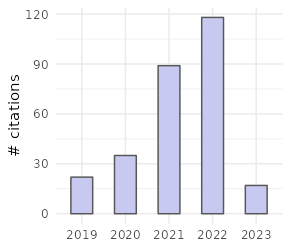
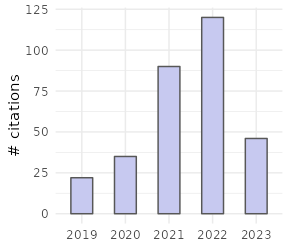
Publication update

diff --git a/publications.html b/publications.html
@@ -34,33 +34,32 @@
     <div class="wrap">
 <h1>Publications</h1>
 <h2>In preparation</h2>
-<h3>2022</h3>
-<p>Khaipho-Burch, Merritt; Giri, Anju; Ramstein, Guillaume; <b>Monier, Brandon</b>; Romay, Maria Cinta; Buckler, Edward S (2022) Elucidating the patterns of pleiotropy and its biological relevance in maize. <i>In preparation</i> doi: <a class="body" href="NA">NA</a></p>
-<p>Sun, Xiaopeng; Xiang, Yanli; Dou, Nannan; Zhang, Hui; Pei, Surui; Valdes Franco, Jose A; Menon, Mitra; <b>Monier, Brandon</b>, Ferebee, Taylor; Liu Tao; Liu, Sanyang; Gao, Yuchi; Wang, Jubin; Terzaghi, William; Yan, Jianbing; Hearne, Sarah; Li, Lin; Li, Feng; Dai, Mingqiu (2022) Genomic basis of the trade-off between environmental adaptation and yield-related traits in maize. <i>In preparation</i> doi: <a class="body" href="NA">NA</a></p>
 <h2>Proceedings and Book Chapters</h2>
 <h3>2017</h3>
-<p><b>Monier, Brandon</b>; Peta, Vincent; Mensah, Jerry; Bucking, Heike (2017) Inter-and intraspecific fungal diversity in the arbuscular mycorrhizal symbiosis. <i>Mycorrhiza-Function, Diversity, State of the Art</i> doi: <a class="body" href="https://doi.org/10.1007/978-3-319-53064-2_12">https://doi.org/10.1007/978-3-319-53064-2_12</a></p>
+<p><b>Monier, Brandon</b>; Peta, Vincent; Mensah, Jerry; Bucking, Heike (2017) Inter-and intraspecific fungal diversity in the arbuscular mycorrhizal symbiosis. <i>Mycorrhiza-Function, Diversity, State of the Art</i> doi: <a class="body" href="10.1007/978-3-319-53064-2_12">10.1007/978-3-319-53064-2_12</a></p>
 <h2>Journal Articles</h2>
+<h3>2023</h3>
+<p>Khaipho-Burch, Merritt; Ferebee, Taylor; Giri, Anju; Ramstein, Guillaume; <b>Monier, Brandon</b>; Yi, Emily; Romay, M. Cinta; Buckler, Edward S. (2023) Elucidating the patterns of pleiotropy and its biological relevance in maize. <i>PLOS Genetics</i> doi: <a class="body" href="10.1371/journal.pgen.1010664">10.1371/journal.pgen.1010664</a></p>
+<p>Sun, Xiaopeng; Xiang, Yanli; Dou, Nannan; Zhang, Hui; Pei, Surui; Franco, Arcadio Valdes; Menon, Mitra; <b>Monier, Brandon</b>; Ferebee, Taylor; Liu, Tao; Liu, Sanyang; Gao, Yuchi; Wang, Jubin; Terzaghi, William; Yan, Jianbing; Hearne, Sarah; Li, Lin; Li, Fengand Dai, Mingqiu (2023) The role of transposon inverted repeats in balancing drought tolerance and yield-related traits in maize. <i>Nature Biotechnology</i> doi: <a class="body" href="10.1038/s41587-022-01470-4">10.1038/s41587-022-01470-4</a></p>
 <h3>2022</h3>
-<p>Gage, Joseph L; Mali, Sujina; McLoughlin, Fionn; Khaipho-Burch, Merritt; <b>Monier, Brandon</b>; Bailey-Serres, Julia; Vierstra, Richard D; Buckler, Edward S (2022) Variation in upstream open reading frames contributes to allelic diversity in protein abundance. <i>Proceedings of the National Academy of Sciences</i> doi: <a class="body" href="https://doi.org/10.1073/pnas.2112516119">https://doi.org/10.1073/pnas.2112516119</a></p>
+<p>Brandon Monier; Terry M. Casstevens; Peter J. Bradbury; Edward S. Buckler (2022) rTASSEL: An R interface to TASSEL for analyzing genomic diversity. <i>Journal of Open Source Software</i> doi: <a class="body" href="10.21105/joss.04530">10.21105/joss.04530</a></p>
+<p>Bradbury, P J; Casstevens, T; Jensen, S E; Johnson, L C; Miller, Z R; Monier, B; Romay, M C; Song, B; Buckler, E S (2022) The Practical Haplotype Graph, a platform for storing and using pangenomes for imputation}",. <i>Bioinformatics</i> doi: <a class="body" href="10.1093/bioinformatics/btac410">10.1093/bioinformatics/btac410</a></p>
+<p>Gage, Joseph L; Mali, Sujina; McLoughlin, Fionn; Khaipho-Burch, Merritt; <b>Monier, Brandon</b>; Bailey-Serres, Julia; Vierstra, Richard D; Buckler, Edward S (2022) Variation in upstream open reading frames contributes to allelic diversity in protein abundance. <i>Proceedings of the National Academy of Sciences</i> doi: <a class="body" href="10.1073/pnas.2112516119">10.1073/pnas.2112516119</a></p>
 <h3>2021</h3>
-<p>Bradbury, Peter; Casstevens, Terry; Jensen, Sarah E; Johnson, Lynn C; Miller, Zachary R; <b>Monier, Brandon</b>; Romay, Maria Cinta; Song, Baoxing; Buckler, Edward S (2021) The Practical Haplotype Graph, a platform for storing and using pangenomes for imputation. <i>bioRxiv</i> doi: <a class="body" href="https://doi.org/10.1101/2021.08.27.457652">https://doi.org/10.1101/2021.08.27.457652</a></p>
-<p>Ferguson, John N; Fernandes, Samuel B; <b>Monier, Brandon</b>; Miller, Nathan D; Allen, Dylan; Dmitrieva, Anna; Schmuker, Peter; Lozano, Roberto; Valluru, Ravi; Buckler, Edward S; Gore, Michael A; Brown, Patrick J; Spalding, Edgar P; Leakey, Andrew DB (2021) Machine learning-enabled phenotyping for GWAS and TWAS of WUE traits in 869 field-grown sorghum accessions. <i>Plant physiology</i> doi: <a class="body" href="https://doi.org/10.1093/plphys/kiab346">https://doi.org/10.1093/plphys/kiab346</a></p>
-<p><b>Monier, Brandon</b>; Casstevens, Terry M; Bradbury, Peter J; Buckler, Edward S (2021) rTASSEL: an R interface to TASSEL for association mapping of complex traits. <i>bioRxiv</i> doi: <a class="body" href="https://doi.org/10.1101/2020.07.21.209114">https://doi.org/10.1101/2020.07.21.209114</a></p>
+<p>Ferguson, John N; Fernandes, Samuel B; <b>Monier, Brandon</b>; Miller, Nathan D; Allen, Dylan; Dmitrieva, Anna; Schmuker, Peter; Lozano, Roberto; Valluru, Ravi; Buckler, Edward S; Gore, Michael A; Brown, Patrick J; Spalding, Edgar P; Leakey, Andrew DB (2021) Machine learning-enabled phenotyping for GWAS and TWAS of WUE traits in 869 field-grown sorghum accessions. <i>Plant physiology</i> doi: <a class="body" href="10.1093/plphys/kiab346">10.1093/plphys/kiab346</a></p>
 <h3>2020</h3>
-<p>Gage, Joseph L; <b>Monier, Brandon</b>; Giri, Anju; Buckler, Edward S (2020) Ten years of the maize nested association mapping population: impact, limitations, and future directions. <i>The Plant Cell</i> doi: <a class="body" href="https://doi.org/10.1105/tpc.19.00951">https://doi.org/10.1105/tpc.19.00951</a></p>
+<p>Gage, Joseph L; <b>Monier, Brandon</b>; Giri, Anju; Buckler, Edward S (2020) Ten years of the maize nested association mapping population: impact, limitations, and future directions. <i>The Plant Cell</i> doi: <a class="body" href="10.1105/tpc.19.00951">10.1105/tpc.19.00951</a></p>
 <h3>2019</h3>
-<p>Sethi, Prince; Narayana Gowda, Smitha; Motapothula, Uma; Baloun, Brett; Atiq, Muslim (2019) Use of lumen apposing metal stent for pyloric stenosis refractory to balloon dilatation. <i>Journal of digestive diseases</i> doi: <a class="body" href="https://doi.org/10.1111/1751-2980.12828">https://doi.org/10.1111/1751-2980.12828</a></p>
-<p><b>Monier, Brandon</b>; McDermaid, Adam; Wang, Cankun; Zhao, Jing; Miller, Allison; Fennell, Anne; Ma, Qin (2019) IRIS-EDA: An integrated RNA-Seq interpretation system for gene expression data analysis. <i>PLoS computational biology</i> doi: <a class="body" href="https://doi.org/10.1371/journal.pcbi.1006792">https://doi.org/10.1371/journal.pcbi.1006792</a></p>
-<p>McDermaid, Adam; <b>Monier, Brandon</b>; Zhao, Jing; Liu, Bingqiang; Ma, Qin (2019) Interpretation of differential gene expression results of RNA-seq data: review and integration. <i>Briefings in bioinformatics</i> doi: <a class="body" href="https://doi.org/10.1093/bib/bby067">https://doi.org/10.1093/bib/bby067</a></p>
+<p><b>Monier, Brandon</b>; McDermaid, Adam; Wang, Cankun; Zhao, Jing; Miller, Allison; Fennell, Anne; Ma, Qin (2019) IRIS-EDA: An integrated RNA-Seq interpretation system for gene expression data analysis. <i>PLoS computational biology</i> doi: <a class="body" href="10.1371/journal.pcbi.1006792">10.1371/journal.pcbi.1006792</a></p>
+<p>McDermaid, Adam; <b>Monier, Brandon</b>; Zhao, Jing; Liu, Bingqiang; Ma, Qin (2019) Interpretation of differential gene expression results of RNA-seq data: review and integration. <i>Briefings in bioinformatics</i> doi: <a class="body" href="10.1093/bib/bby067">10.1093/bib/bby067</a></p>
 <h3>2018</h3>
-<p><b>Monier, Brandon</b>; McDermaid, Adam; Zhao, Jing; Fennell, Anne; Ma, Qin (2018) IRIS-DGE: An integrated RNA-seq data analysis and interpretation system for differential gene expression. <i>bioRxiv</i> doi: <a class="body" href="https://doi.org/10.1101/283341">https://doi.org/10.1101/283341</a></p>
-<p>McDermaid, Adam; <b>Monier, Brandon</b>; Zhao, Jing; Ma, Qin (2018) ViDGER: An R package for integrative interpretation of differential gene expression results of RNA-seq data. <i>bioRxiv</i> doi: <a class="body" href="https://doi.org/10.1101/268896">https://doi.org/10.1101/268896</a></p>
+<p><b>Monier, Brandon</b>; McDermaid, Adam; Zhao, Jing; Fennell, Anne; Ma, Qin (2018) IRIS-DGE: An integrated RNA-seq data analysis and interpretation system for differential gene expression. <i>bioRxiv</i> doi: <a class="body" href="10.1101/283341">10.1101/283341</a></p>
+<p>McDermaid, Adam; <b>Monier, Brandon</b>; Zhao, Jing; Ma, Qin (2018) ViDGER: An R package for integrative interpretation of differential gene expression results of RNA-seq data. <i>bioRxiv</i> doi: <a class="body" href="10.1101/268896">10.1101/268896</a></p>
 <h2>Theses</h2>
 <h3>2018</h3>
-<p><b>Monier, Brandon</b> (2018) Microbial communities and their impact on bioenergy crops in dynamic environments. NA doi: <a class="body" href="https://openprairie.sdstate.edu/etd/2659">https://openprairie.sdstate.edu/etd/2659</a></p>
+<p><b>Monier, Brandon</b> (2018) Microbial communities and their impact on bioenergy crops in dynamic environments. NA doi: <a class="body" href="NA">NA</a></p>
 <h3>2013</h3>
-<p><b>Monier, Brandon</b> (2013) The Analysis of Cytotypic Variation and Construction of a BAC Library of Midwestern Prairie Cordgrass (Spartina pectinata Link) Genotypes. NA doi: <a class="body" href="https://openprairie.sdstate.edu/etd/1624">https://openprairie.sdstate.edu/etd/1624</a></p>
+<p><b>Monier, Brandon</b> (2013) The Analysis of Cytotypic Variation and Construction of a BAC Library of Midwestern Prairie Cordgrass (Spartina pectinata Link) Genotypes. NA doi: <a class="body" href="NA">NA</a></p>
 <h2>Stats</h2><p><img src="images/stats/scholar_stats.png" alt="Google Scholar Stats"></p>
 
 <table>
@@ -71,13 +70,13 @@
 </tr>
 <tr>
 <td>Citations</td>
-<td>295</td>
-<td>293</td>
+<td>327</td>
+<td>325</td>
 </tr>
 <tr>
 <td>h-index</td>
-<td>6</td>
-<td>6</td>
+<td>7</td>
+<td>7</td>
 </tr>
 <tr>
 <td>i10-index</td>
@@ -85,7 +84,7 @@
 <td>5</td>
 </tr>
 </table>
-<br><p><i>Last Compiled: </i><code>2023-03-03</code></p>
+<br><p><i>Last Compiled: </i><code>2023-05-12</code></p>
 
         <br><br><br><br><br>
     </div>
